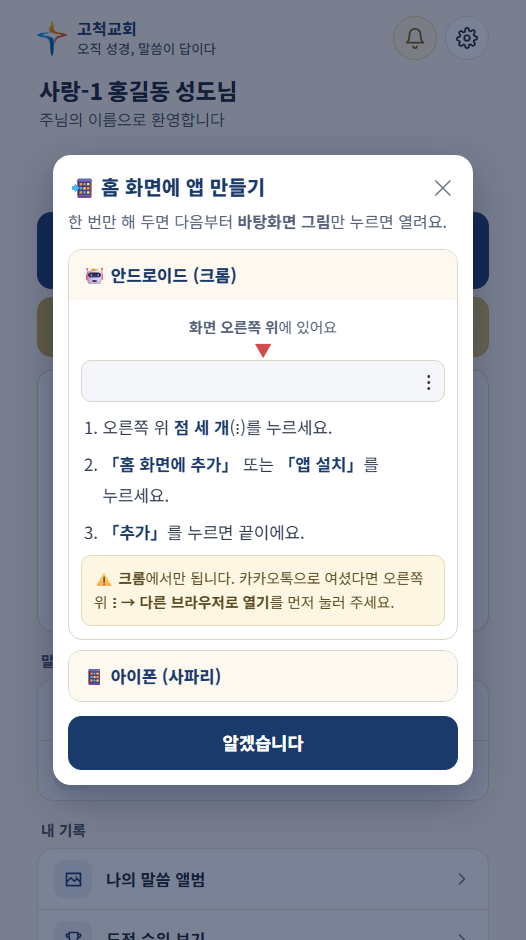
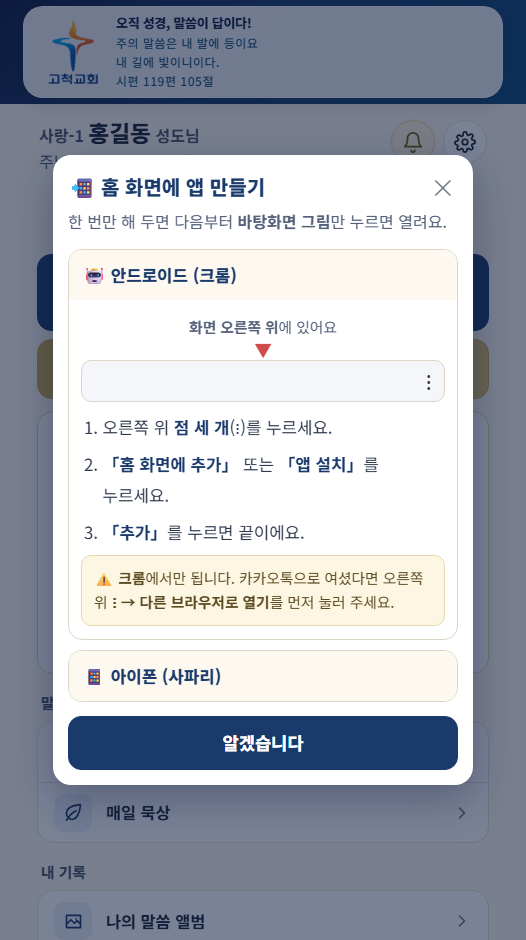
fix(첫 화면 A): 맨 위 로고 띠는 다른 화면과 같이 그대로 · 🔔⚙ 는 인사 줄 오른쪽(친구 「기존과 같이 청색으로」) — v3.637
- 시안 머리 줄(글씨 없는 로고 · 고척교회 / 오직 성경…)을 걷고 로고 띠(남색 띠 + 흰 상자)를 되살림 · img/logo-mark.png 지움
- 🔔 · ⚙ 는 인사 줄 오른쪽 · 소속 · 「성도님」은 작게(한 줄에 들게)
- 설명서 · guide ⑧ 자리 말 「내 이름 오른쪽」 · guide ② 손가락 · 사진 둘 다시

diff --git a/app.js b/app.js
@@ -6,7 +6,7 @@
 
 // 이 파일의 빌드 번호 — index.html의 app.js?v= 와 반드시 같아야 한다.
 // (tools/bump.py가 둘을 함께 올린다)
-const APP_BUILD = "20261014p";
+const APP_BUILD = "20261014q";
 
 // 배포 직후 CDN이 아직 옛 app.js를 내보내면, 브라우저는 그 옛 내용을 '새 주소'
 // 아래 캐시해 버린다. 주소가 다시 바뀌기 전까지(최대 10분) 옛 화면이 남는 이유다.
@@ -947,20 +947,17 @@ function haRow(b, ext) {
   b.insertAdjacentHTML("afterbegin", `<span class="ha-ic${tone}" aria-hidden="true">${haSvg(HA_ROW_ICON[b.id], "")}</span>`);
   b.insertAdjacentHTML("beforeend", haSvg(ext ? "ext" : "chev", "ha-trail"));
 }
-// 맨 위(2026-10-14 친구 「시안 그대로 맨 위까지」 · 「A안 첫 줄에 고척교회 앞에 글씨 없는 로고」) — 시안 A(Main.dc.html) 머리 줄:
-//   [로고 표시만(img/logo-mark.png — logo-gocheok.png 에서 「고척교회」 글씨를 잘라 냄)][고척교회 / 오직 성경, 말씀이 답이다] … [🔔][⚙].
-//   로고 띠(.page-header)는 첫 화면 A 에서만 숨긴다(watchPageHeaderVsStickyRef 가 .home-a 를 본다 · 다른 화면은 그대로).
+// 위쪽(2026-10-14 친구 — 시안 A Main.dc.html) — 인사 줄 오른쪽에 [🔔][⚙] · 인사 · 두 단추 아이콘 · 이번 주 말씀 카드.
+//   맨 위 로고 띠(.page-header · 남색 띠 + 흰 상자 · 로고 · 「오직 성경, 말씀이 답이다!」 · 시편 119편 105절)는 **다른 화면과 같이 그대로 둔다**
+//   (친구 「내용은 그대로 두고 기존과 같이 청색으로」 — 같은 날 시안처럼 띠를 걷고 「로고 · 고척교회 / 오직 성경…」 머리 줄을 넣었다가 되돌렸다).
 //   🔔 알림 · ⚙ 설정 단추는 아래 도구 칸에서 옮겨 온다 — id · 연결 · 종 강조(pulse) · 금색(알림)은 그대로. 도구 칸은 셋(구절 · 쓰기 · 도움말)이 된다.
 //   인사는 왼쪽 맞춤 큰 글씨 · 두 단추 그림 글자는 선 아이콘(자리 · 크기 · 색은 그대로 — 10/11 「늘 같은 자리」) · 이번 주 말씀은 본문 명조 · 구절은 따로 한 줄.
-//   ⚠ 설명서의 「맨 아래 ⚙ 설정 · 🔔 알림」 자리 말은 HOME_LAYOUT 을 따라 갈린다(copy-truth · MANUAL 「알림」 · 「글씨 크게 하기」).
+//   ⚠ 설명서의 「맨 아래 ⚙ 설정 · 🔔 알림」 자리 말은 HOME_LAYOUT 을 따라 갈린다(copy-truth · MANUAL 「알림」 · 「글씨 크게 하기」 · 「내 이름 오른쪽」).
 function haTop(card) {
-  const scr = card.closest(".summary-screen");
-  if (!scr || scr.querySelector(".ha-top")) return;
-  const top = document.createElement("div");
-  top.className = "ha-top";
-  top.innerHTML = `<img class="ha-logo" src="img/logo-mark.png" alt="" width="98" height="120">` +
-    `<div class="ha-brand"><b>고척교회</b><span>오직 성경, 말씀이 답이다</span></div><div class="ha-top-btns"></div>`;
-  const btns = top.querySelector(".ha-top-btns");
+  const head = card.querySelector(":scope > .summary-headrow");
+  if (!head || head.querySelector(".ha-top-btns")) return;
+  const btns = document.createElement("div");
+  btns.className = "ha-top-btns";
   [["open-alarm", "bell"], ["open-settings", "gear"]].forEach(([id, ic]) => {
     const b = document.getElementById(id);
     if (!b) return;
@@ -970,7 +967,7 @@ function haTop(card) {
     btns.appendChild(b);
     if (cap) cap.remove();
   });
-  scr.insertBefore(top, scr.firstChild);
+  head.appendChild(btns);
   // 인사 — 끝의 🙌 는 뺀다(이모지 대신 글로)
   const hello = card.querySelector(".summary-hello");
   const last = hello && hello.lastChild;
@@ -7258,7 +7255,6 @@ function scrollPastBtnRow() {
 //   .album-screen    — 구절을 길게 훑는 화면이라 위쪽 공간을 온전히 내준다
 //   .pr-wrap         — 축복 기도문. 소리 내어 읽는 화면이라 스크롤을 한 줄이라도 줄인다
 //   .min-screen      — 사역 신청. 위원회 아코디언을 길게 훑는 화면이라 위를 내준다
-//   .home-a          — 첫 화면 A안(2026-10-14 친구 「시안 그대로 맨 위까지」) — 머리 줄(로고 표시 · 고척교회 · 🔔 · ⚙)이 대신한다(app.js haTop)
 //   .ps-wrap         — 시편 말씀 액자. 액자 한 장이 주인공인 화면이라 위를 온전히 내준다
 //                      (성도님 제보 2026-09-10: 로고 배너가 액자를 눌러 화면 밖으로 밀었다)
 //   ⚠ 오늘의 찬양은 2026-09-23 저녁부터 팝업(.cheer-overlay, document.body 에 붙는다)이라
@@ -7269,7 +7265,7 @@ function scrollPastBtnRow() {
   const header = document.querySelector(".page-header");
   if (!appEl || !header) return;
   const sync = () => {
-    const hide = !!appEl.querySelector(".test-ref-sticky, .album-screen, .pr-wrap, .min-screen, .ps-wrap, .summary-screen.home-a");
+    const hide = !!appEl.querySelector(".test-ref-sticky, .album-screen, .pr-wrap, .min-screen, .ps-wrap");
     header.style.display = hide ? "none" : "";
     // 로고 배너가 지던 상태바 여백을 #app 이 대신 진다(style.css body.no-page-header).
     // 쉴만한 물가(.ps-wrap)는 제 여백을 스스로 지므로 빼야 두 번 들어가지 않는다.
@@ -9659,9 +9655,9 @@ const MANUAL = [
     art: '<div class="mn-row"><span class="mn-btn">🔔 알림</span></div>',
     get steps() {
       return [
-        // 2026-10-14 첫 화면 A 는 🔔 · ⚙ 를 맨 위 머리 줄로 옮겼다(haTop) — 롤백(HOME_LAYOUT "old")이면 옛 자리 그대로
+        // 2026-10-14 첫 화면 A 는 🔔 · ⚙ 를 인사 줄 오른쪽으로 옮겼다(haTop) — 롤백(HOME_LAYOUT "old")이면 옛 자리 그대로
         HOME_LAYOUT === "a"
-          ? "첫 화면 <b>맨 위 오른쪽</b>에 <b>🔔</b> 단추가 있어요. 그걸 누르세요."
+          ? "첫 화면 <b>내 이름 오른쪽</b>에 <b>🔔</b> 단추가 있어요. 그걸 누르세요."
           : "첫 화면을 <b>맨 아래까지</b> 내리면 <b>🔔 알림</b> 단추가 있어요. 그걸 누르세요.",
         "폰이 <b>「허용하시겠습니까?」</b> 하고 물어봐요.",
         "<b>「허용」</b>을 누르세요.",
@@ -9930,8 +9926,8 @@ const MANUAL = [
     lead: "잘 안 보이시면 키우세요.",
     art: '<div class="mn-row"><span class="mn-btn">가</span><span class="mn-btn mn-btn-mid">가</span><span class="mn-btn mn-btn-on mn-btn-big">가</span></div>',
     steps: [
-      HOME_LAYOUT === "a"   // 첫 화면 A 는 ⚙ 가 맨 위 머리 줄(haTop · 2026-10-14)
-        ? "첫 화면 <b>맨 위 오른쪽</b>의 <b>⚙</b>(설정)을 누르세요."
+      HOME_LAYOUT === "a"   // 첫 화면 A 는 ⚙ 가 인사 줄 오른쪽(haTop · 2026-10-14)
+        ? "첫 화면 <b>내 이름 오른쪽</b>의 <b>⚙</b>(설정)을 누르세요."
         : "첫 화면을 <b>맨 아래까지</b> 내려 <b>⚙ 설정</b>을 누르세요.",
       "<b>글씨 크기</b>에서 <b>크게</b>나 <b>아주 크게</b>를 고르세요.",
       "눈이 부시면 <b>화면 밝기</b>에서 <b>🌙 어둡게</b>를 고르세요.",

diff --git a/style.css b/style.css
@@ -7272,15 +7272,12 @@ html[data-fs="xl"] .test-screen.memo-c .test-sentence, html[data-fs="xl"] .test-
 .dark .nv-a .rank-filter.album-play .ab-go { background: #1a202b; border-color: #4a6597; color: #9dbbea; }
 .dark .nv-a .rank-filter.album-play .ab-go:hover { background: #222a37; }
 
-/* ── 첫 화면 A 맨 위(app.js haTop · 2026-10-14 친구 「시안 그대로 맨 위까지」 · 「고척교회 앞에 글씨 없는 로고」) ─────────────
-   로고 띠(.page-header)를 숨기고 크림 바탕 위에 [로고][고척교회 / 오직 성경, 말씀이 답이다] … [🔔][⚙] · 인사 · 두 단추 · 이번 주 말씀 카드 ·
-   묶음 · 도구 칸이 바로 놓인다(흰 큰 카드를 걷는다 — 시안 A 의 「바탕 위 흰 카드」). 두 단추의 자리 · 크기 · 색은 그대로. */
-.home-a .ha-top { max-width: 460px; margin: 0 auto 16px; padding: 6px 4px 0; display: flex; align-items: center; gap: 10px; }
-.home-a .ha-logo { width: 30px; height: auto; flex: none; }
-.home-a .ha-brand { display: flex; flex-direction: column; gap: 1px; min-width: 0; flex: 1 1 auto; text-align: left; }
-.home-a .ha-brand b { font-size: 1rem; font-weight: 800; line-height: 1.3; letter-spacing: .02em; color: #1e3a6b; }
-.home-a .ha-brand span { font-size: .84rem; font-weight: 500; line-height: 1.3; color: #4a5468; word-break: keep-all; }
-.home-a .ha-top-btns { display: flex; gap: 8px; flex: none; }
+/* ── 첫 화면 A 위쪽(app.js haTop · 2026-10-14 친구) — 맨 위 로고 띠(남색 띠 + 흰 상자)는 다른 화면과 같이 그대로(친구 「기존과 같이 청색으로」) ─────
+   그 아래 크림 바탕 위에 인사(왼쪽) · [🔔][⚙](오른쪽) · 두 단추 · 이번 주 말씀 카드 · 묶음 · 도구 칸이 바로 놓인다(흰 큰 카드를 걷는다 — 시안 A 의
+   「바탕 위 흰 카드」). 두 단추의 자리 · 크기 · 색은 그대로. */
+.home-a .summary-headrow { flex-direction: row; align-items: flex-start; gap: 10px; }
+.home-a .summary-headrow .summary-hello { min-width: 0; word-break: keep-all; }
+.home-a .ha-top-btns { display: flex; gap: 8px; flex: none; margin-top: 2px; }
 .home-a .ha-top-btns .summary-icon.ha-round { width: 44px; height: 44px; border: 1px solid #e5dfd4; background: #fff; color: #1b2333; }
 .home-a .ha-top-btns .summary-icon.ha-round:hover { background: #f7f4ee; }
 .home-a .ha-top-btns .summary-icon.ha-round svg { width: 22px; height: 22px; }
@@ -7288,11 +7285,12 @@ html[data-fs="xl"] .test-screen.memo-c .test-sentence, html[data-fs="xl"] .test-
 .home-a .ha-top-btns .summary-icon.icon-alarm.ha-round:hover { background: #ffeec4; }
 /* 흰 큰 카드를 걷는다 — 인사 · 단추 · 카드가 바탕 위에 */
 .home-a .summary-card { background: transparent; border: 0; box-shadow: none; padding: 0 4px 8px; text-align: left; }
-.home-a .summary-headrow { position: static; margin: 0 0 14px; padding: 0 2px; background: transparent; border: 0; border-radius: 0; }
+.home-a .summary-headrow { position: static; margin: 4px 0 14px; padding: 0 2px; background: transparent; border: 0; border-radius: 0; }
 .home-a .summary-hello { font-family: "Noto Sans KR", sans-serif; font-size: 1rem; line-height: 1.5; color: #4a5468; text-align: left; }
+.home-a .summary-hello .summary-user { font-size: 1.42rem; font-weight: 800; line-height: 1.35; letter-spacing: 0; color: #1b2333; }
+/* 소속 · 「성도님」은 작게(옛 첫 화면과 같은 짜임) — 🔔 · ⚙ 와 한 줄이라 셋 다 크면 360px 에서 「성도님」이 다음 줄로 꺾였다 */
 .home-a .summary-hello .summary-affil,
-.home-a .summary-hello .summary-user,
-.home-a .summary-hello .summary-honor { font-size: 1.42rem; font-weight: 800; line-height: 1.35; letter-spacing: 0; color: #1b2333; }
+.home-a .summary-hello .summary-honor { font-size: 1rem; font-weight: 700; line-height: 1.35; letter-spacing: 0; color: #4a5468; }
 .home-a .ha-big-ic { width: 30px; height: 30px; display: block; }
 .home-a #go-challenge .ha-big-ic { width: 26px; height: 26px; }
 /* 묶음 띠 — 바탕이 이미 크림이라 띠는 걷는다(여백만) */
@@ -7310,17 +7308,15 @@ html[data-fs="xl"] .test-screen.memo-c .test-sentence, html[data-fs="xl"] .test-
 .home-a .weekly-actions .weekly-primary { background: #1e3a6b; border-color: #1e3a6b; color: #fff; }
 .home-a .weekly-actions .weekly-secondary { background: transparent; border-color: #8da3c8; color: #1e3a6b; }
 .home-a .weekly-actions .weekly-secondary:hover { background: #eaf0f9; }
-.dark .home-a .ha-brand b { color: #9dbbea; }
-.dark .home-a .ha-brand span { color: #b9c0cd; }
 .dark .home-a .ha-top-btns .summary-icon.ha-round { background: #1a202b; border-color: #2c3442; color: #f1eee7; }
 .dark .home-a .ha-top-btns .summary-icon.ha-round:hover { background: #222a37; }
 .dark .home-a .ha-top-btns .summary-icon.icon-alarm.ha-round { background: #3a3320; border-color: #5a4e2a; color: #eccf87; }
 .dark .home-a .summary-card { background: transparent; border: 0; }
 .dark .home-a .summary-headrow { background: transparent; border: 0; }
 .dark .home-a .summary-hello { color: #b9c0cd; }
+.dark .home-a .summary-hello .summary-user { color: #f1eee7; }
 .dark .home-a .summary-hello .summary-affil,
-.dark .home-a .summary-hello .summary-user,
-.dark .home-a .summary-hello .summary-honor { color: #f1eee7; }
+.dark .home-a .summary-hello .summary-honor { color: #b9c0cd; }
 .dark .home-a .ha-zone { background: transparent; }
 .dark .home-a .weekly-card { background: #1a202b; border-color: #5c4c22; }
 .dark .home-a .weekly-kicker { background: #3a3018; color: #e9cd7e; }

diff --git a/index.html b/index.html
@@ -68,7 +68,7 @@
   <link rel="preconnect" href="https://fonts.gstatic.com" crossorigin />
   <link href="https://fonts.googleapis.com/css2?family=Gowun+Batang:wght@400;700&family=Lora:wght@400;600;700&family=Nanum+Myeongjo:wght@400;700;800&family=Noto+Sans+KR:wght@400;500;700;800&display=swap" rel="stylesheet" media="print" onload="this.media='all'" />
   <noscript><link href="https://fonts.googleapis.com/css2?family=Gowun+Batang:wght@400;700&family=Lora:wght@400;600;700&family=Nanum+Myeongjo:wght@400;700;800&family=Noto+Sans+KR:wght@400;500;700;800&display=swap" rel="stylesheet" /></noscript>
-  <link rel="stylesheet" href="style.css?v=20261014p" />
+  <link rel="stylesheet" href="style.css?v=20261014q" />
 </head>
 <body>
   <!-- 앱 시작 스플래시 화면 -->
@@ -77,7 +77,7 @@
       <img id="splash-logo" src="img/logo-gocheok.png" alt="고척교회" />
       <div class="splash-title">오직 성경, 말씀이 답이다!</div>
       <div class="splash-sub">주의 말씀은 내 발에 등이요<br>내 길에 빛이니이다</div>
-      <div class="splash-ver">v3.636</div>
+      <div class="splash-ver">v3.637</div>
       <img class="splash-denom" src="logo3.png?v=20260702y" alt="대한예수교장로회총회" onerror="this.style.display='none'" />
     </div>
   </div>
@@ -110,11 +110,11 @@
     <p style="text-align:center;padding:40px">불러오는 중...</p>
   </main>
 
-  <script src="js/config.js?v=20261014p"></script>
-  <script src="js/api.js?v=20261014p"></script>
-  <script src="js/push.js?v=20261014p"></script>
-  <script src="js/psalm.js?v=20261014p"></script>
-  <script src="js/events.js?v=20261014p"></script>
-  <script src="app.js?v=20261014p"></script>
+  <script src="js/config.js?v=20261014q"></script>
+  <script src="js/api.js?v=20261014q"></script>
+  <script src="js/push.js?v=20261014q"></script>
+  <script src="js/psalm.js?v=20261014q"></script>
+  <script src="js/events.js?v=20261014q"></script>
+  <script src="app.js?v=20261014q"></script>
 </body>
 </html>

diff --git a/guide/index.html b/guide/index.html
@@ -177,7 +177,7 @@ var STEPS = [
     say:"앱의 <b>❓ 도움말</b>에서 ①번 <b>📲 지금 만들기</b>를 누르면 이런 안내가 나와요. 안드로이드는 「설치」 창이 바로 뜨기도 하고, 아이폰은 화면 맨 아래 <b>공유 단추</b>를 눌러 「홈 화면에 추가」를 고르시면 됩니다.",
     tip:"카카오톡 안에서 열면 되지 않아요. 먼저 「사파리로 열기」나 「다른 브라우저로 열기」를 누르세요." },
 
-  { img:"shots/home.png", t:"② 첫 화면", tap:{x:50,y:27},
+  { img:"shots/home.png", t:"② 첫 화면", tap:{x:50,y:31},
     s:"여기서 모든 것이 시작돼요.",
     say:"내 이름과 <b>오늘 몇 번</b> 했는지가 위에 보여요. 그 아래 <b>남색 단추</b>가 「말씀 암송」, 바로 밑 <b>금색 단추</b>가 「말씀 도전」입니다.",
     tip:"두 단추는 늘 같은 자리에 있어요." },
@@ -206,7 +206,7 @@ var STEPS = [
 
   { img:"shots/settings.png", t:"⑧ 글씨 크게 하기", tap:{x:50,y:50},
     s:"잘 안 보이시면 키우세요.",
-    say:"첫 화면 맨 위 오른쪽의 <b>⚙</b>(설정)을 누르고 <b>글씨 크기</b>에서 「크게」나 「아주 크게」를 고르세요. 읽어 주는 <b>속도</b>도 느리게 할 수 있어요." },
+    say:"첫 화면 내 이름 오른쪽의 <b>⚙</b>(설정)을 누르고 <b>글씨 크기</b>에서 「크게」나 「아주 크게」를 고르세요. 읽어 주는 <b>속도</b>도 느리게 할 수 있어요." },
 
   { img:"shots/manual.png", t:"⑨ 언제든 다시 보기",
     s:"앱 안에도 설명서가 있어요.",

diff --git a/admin.html b/admin.html
@@ -74,7 +74,7 @@
     // 교회 어드민으로 옮긴 관리 화면은 여기서 걷었다 — 성도 정보(2026-10-09) · 이벤트 · 찬양 아카이브 · 내게 주시는 말씀 기록 · 사역관리(2026-10-13).
     //   남은 것(성경암송 관리 · 설교·찬양 관리)은 설교 실전 확인 뒤 마지막 걷기에(docs/notes/admin-migration.md).
     //   ⚠ 교회 어드민(admin.onlybible.kr)으로 가는 타일은 두지 않는다(2026-10-13 친구 — 그곳은 주소로 직접 들어간다).
-    { ic:"📖", title:"성경암송 관리", desc:"통계 · 알림발송 · 주간리포트 · 게시판", href:"admin-stats.html?v=20261014p" },
+    { ic:"📖", title:"성경암송 관리", desc:"통계 · 알림발송 · 주간리포트 · 게시판", href:"admin-stats.html?v=20261014q" },
     { ic:"⛪", title:"설교·찬양 관리", desc:"설교 올리기(두 단계) · 설교 목록 · 매일 묵상 · 담당자 — 담당자도 이 주소로", href:"admin-sermon.html" },
     { ic:"🎬", title:"환영 인트로 미리보기", desc:"첫 방문 인트로 4장 — 성도님 화면엔 영향 없음", href:"index.html?preview=intro" },
     { ic:"🙏", title:"축복 인사 미리보기", desc:"첫 로그인 축복 카드 — 로그인 상태에서 확인", href:"index.html?preview=blessing" },

diff --git a/CLAUDE.md b/CLAUDE.md
@@ -59,7 +59,7 @@
 | 봉사 당번(2026-10-06 운영 · 문 닫힘 — 🧪만) — `duty_signups` 에 직접 쓰지 말 것 | `docs/notes/duty-roster.md` |
 | 관리 기능을 교회 어드민으로 옮기기(2026-10-08 결정) | `docs/notes/admin-migration.md` · `docs/backlog.md` 4-5 |
 | 안드로이드 앱(TWA)·위젯·플레이스토어(새 앱 `kr.onlybible.gocheok`) | `docs/notes/android-app.md` |
-| 디자인 개편(2026-10-12 시작 · 시안 A·B·C 의견 수렴 중 — 고르기 전엔 입히지 말 것) · 「전」 사진 `자료/design/` · **먼저 넣은 것**(10-12 운영): 첫 화면 남은 수·전체 수·% 빼기 · 말씀 목록 시안 B 구조(본문 두 줄 · 거르기 칸 「진행·마침·마음에 둠·안 함」 · 힌트는 마음에 둔 구절에만) · 상태 이름 「아직 안 함 · 1단계 마침 · 다 마침」 · **첫 화면 A안 운영(2026-10-13 · 이번 주 말씀 아래 줄 목록) — 롤백 `app.js` `HOME_LAYOUT = "old"` 한 줄 + bump(깃 태그 `home-before-a-2026-10-13`)** · 한 기기만 `?home=old` · B안 미리보기 `?home=b` · `?home=off` · **나의 말씀 앨범 A안 운영(2026-10-13 v3.617 · 롤백 `app.js` `ALBUM_LAYOUT = "old"` 한 줄 + bump)** · 「첫 화면으로」는 시안과 달리 늘 아래에 떠 있게(친구) · **✍ 말씀 글꼴 설정(2026-10-14 · 기본 고딕 · `html[data-wf]`)** · **암송 · 말씀 도전 A안 운영(2026-10-14 v3.634 · 주제별 성경암송 3단계 · 복습도 v3.635 · 단계 완료 창 · 마친 뒤 카드 · 주제별 목록 · 첫 화면 맨 위(로고 표시 `img/logo-mark.png` · 🔔⚙ 위로)도 v3.636 — 롤백 `app.js` `MEMO_LAYOUT = "old"` 한 줄 + bump · 깃 태그 `memo-before-a-2026-10-14` · 한 기기만 설정 → 관리 페이지 「옛 화면」/`?memo=old`) · 위 구절 띠(`.test-ref-sticky`)에는 아무것도 넣지 말 것 — 아이폰 앱이 읽는다** | `docs/notes/design-refresh.md` |
+| 디자인 개편(2026-10-12 시작 · 시안 A·B·C 의견 수렴 중 — 고르기 전엔 입히지 말 것) · 「전」 사진 `자료/design/` · **먼저 넣은 것**(10-12 운영): 첫 화면 남은 수·전체 수·% 빼기 · 말씀 목록 시안 B 구조(본문 두 줄 · 거르기 칸 「진행·마침·마음에 둠·안 함」 · 힌트는 마음에 둔 구절에만) · 상태 이름 「아직 안 함 · 1단계 마침 · 다 마침」 · **첫 화면 A안 운영(2026-10-13 · 이번 주 말씀 아래 줄 목록) — 롤백 `app.js` `HOME_LAYOUT = "old"` 한 줄 + bump(깃 태그 `home-before-a-2026-10-13`)** · 한 기기만 `?home=old` · B안 미리보기 `?home=b` · `?home=off` · **나의 말씀 앨범 A안 운영(2026-10-13 v3.617 · 롤백 `app.js` `ALBUM_LAYOUT = "old"` 한 줄 + bump)** · 「첫 화면으로」는 시안과 달리 늘 아래에 떠 있게(친구) · **✍ 말씀 글꼴 설정(2026-10-14 · 기본 고딕 · `html[data-wf]`)** · **암송 · 말씀 도전 A안 운영(2026-10-14 v3.634 · 주제별 성경암송 3단계 · 복습도 v3.635 · 단계 완료 창 · 마친 뒤 카드 · 주제별 목록 · 첫 화면 위쪽(🔔⚙ 는 인사 줄 오른쪽 · 맨 위 로고 띠는 그대로 — 친구 v3.637)도 v3.636 — 롤백 `app.js` `MEMO_LAYOUT = "old"` 한 줄 + bump · 깃 태그 `memo-before-a-2026-10-14` · 한 기기만 설정 → 관리 페이지 「옛 화면」/`?memo=old`) · 위 구절 띠(`.test-ref-sticky`)에는 아무것도 넣지 말 것 — 아이폰 앱이 읽는다** | `docs/notes/design-refresh.md` |
 
 ## 폴더 — 참고·산출물은 `자료/` (2026-10-08)
 화면이 안 쓰는 참고·산출물은 모두 `자료/` 아래다 — `marketing`·`ministry`·`store`·`psalm`·`migrate`·`booklet`(GitHub) + `education`·`newfamily`·`AppForm`·`Picture`·`당회보고`(로컬). **`자료/` 는 사이트로 안 나간다.**

diff --git a/docs/notes/design-refresh.md b/docs/notes/design-refresh.md
@@ -90,6 +90,7 @@
   - 플레이 앱 위 띠는 `syncStatusBar` 가 화면 맨 위 색을 재므로 첫 화면에서 이제 크림이 된다(코드 손댈 것 없음 · 실기기 확인은 남음).
 - 확인(localhost 개발 DB): 360 · 320 아주 크게 × 밝게 · 어둡게 — 넘침 · 잘림 0 · 오류 0 · 완료 창(주간 1 · 3단계 · 주제별 1 · 2단계) · 완료 카드 · 주제별 두 목록 · 첫 화면 · 설정 단추 → 설정 화면 · 다른 화면(설정 · 말씀 목록)은 로고 띠 그대로 · `?home=old` 는 옛 첫 화면 그대로(로고 띠 · 아래 🔔) · `?home=b` 그대로.
 - 롤백: ①②③ = `MEMO_LAYOUT = "old"` · ④ = `HOME_LAYOUT = "old"`(각 한 줄 + bump). 한 기기만은 설정 → 🔒 관리 「옛 화면」(①②③) · `?home=old`(④).
+- **같은 날 v3.637 — 맨 위 로고 띠는 되돌렸다**(친구 — 로고 띠 사진을 보이며 「내용은 그대로 두고 기존과 같이 박스를 청색으로」 → 「원래 로고 띠로(남색 띠 + 흰 상자)」를 고름). 첫 화면도 다른 화면과 같은 로고 띠(로고 · 「오직 성경, 말씀이 답이다!」 · 시편 119편 105절)가 맨 위에 있고, 시안의 머리 줄(글씨 없는 로고 · 「고척교회 / 오직 성경…」)은 걷었다(`img/logo-mark.png` 도 지움). 🔔 · ⚙ 는 **인사 줄 오른쪽**(`haTop` 이 `.summary-headrow` 에 붙인다) · 그래서 소속 · 「성도님」은 작게(옛 첫 화면 짜임 — 셋 다 크면 360px 에서 「성도님」이 꺾였다 · 320 아주 크게는 「성도님」만 다음 줄). 설명서 · guide ⑧ 의 자리 말은 「내 이름 오른쪽」 · guide ② 손가락 y 31 · 사진 둘 다시. 그 아래(인사 · 두 단추 아이콘 · 이번 주 말씀 · 흰 큰 카드 걷기 · 묶음)는 v3.636 그대로. 플레이 앱 위 띠는 다시 로고 띠 남색.
 
 ## 🧪 암송 화면 시안 A · B · C 미리보기 — `?memo=a|b|c` (2026-10-14 · 친구 「암송화면 시안A, 시안B, 시안C 모두 만들어 주세요」)
 - **폰에서는 설정 → 🔒 관리 페이지 → 「🧪 암송 화면 시안 미리보기」**에서 켠다(아래 ⚠). PC 브라우저는 **https://gocheok.onlybible.kr/?memo=a**(또는 `b` · `c`)로 연 기기에서만 암송 화면(`renderTestScreen` — 이번 주 말씀 · 말씀 목록에서 들어가는 화면)이 그 시안 꼴이다. 화면 위 표시 줄에서 **A · B · C · 원래**를 그 자리에서 바꿔 본다(`?memo=off` 도 원래로). 표식은 localStorage `memo-preview` 하나 — 주소를 모르는 성도님 화면은 그대로다.

diff --git a/docs/notes/home-screen.md b/docs/notes/home-screen.md
@@ -105,5 +105,5 @@
 
 ## 교회 사이트에 고척교회 유튜브(2026-10-13 · v3.607)
 친구 요청 — 「교회 사이트」 묶음 찬양·말씀 아카이브 아래 **▶ 고척교회 유튜브**(`#open-youtube` → `https://www.youtube.com/@GocheokCh` · 새 창 · ↗). A안 `HA_GROUPS` 「교회 사이트」 셋째 · 줄 아이콘 `play` · 옛 첫 화면은 「더 보기」 안. 앱이 유튜브로 보내는 정보는 없다(주소만 연다 — 「오늘의 찬양」의 앱 안 재생과 다르다). 시험 `tests/home-groups.test.cjs`(차례·주소).
-- **2026-10-14 첫 화면 맨 위도 시안 A(친구 「시안 그대로 맨 위까지」 · 「고척교회 앞에 글씨 없는 로고」 · v3.636).** 로고 띠를 첫 화면에서만 숨기고 머리 줄 [로고 표시][고척교회 / 오직 성경, 말씀이 답이다][🔔][⚙] · 🔔 · ⚙ 는 아래 도구 칸에서 옮겨 왔다(도구 칸은 구절 · 쓰기 · 도움말 셋) · 흰 큰 카드를 걷어 바탕 위에 흰 카드 · 인사 왼쪽 맞춤 · 두 단추 그림 글자는 선 아이콘(**자리 · 크기 · 색은 그대로** — 10/11 「늘 같은 자리」) · 이번 주 말씀 카드 정리. 코드 `app.js haTop`(applyHomeA 가 먼저 부른다) · 상세와 확인은 `design-refresh.md` 「v3.636」. ⚠ 설명서의 🔔 · ⚙ 자리 말은 `HOME_LAYOUT` 으로 갈린다 — 롤백하면 옛 말이 나온다.
+- **2026-10-14 첫 화면 위쪽도 시안 A(v3.636 → 맨 위만 v3.637 에 되돌림).** 처음엔 시안대로 로고 띠를 숨기고 머리 줄 [글씨 없는 로고][고척교회 / 오직 성경…][🔔][⚙] 을 넣었다가, 친구가 「기존과 같이 청색으로」 → **로고 띠는 다른 화면과 같이 그대로** · 🔔 · ⚙ 는 **인사 줄 오른쪽**(아래 도구 칸에서 옮겨 왔다 — 도구 칸은 구절 · 쓰기 · 도움말 셋) · 흰 큰 카드를 걷어 바탕 위에 흰 카드 · 인사 왼쪽 맞춤 · 두 단추 그림 글자는 선 아이콘(**자리 · 크기 · 색은 그대로** — 10/11 「늘 같은 자리」) · 이번 주 말씀 카드 정리. 코드 `app.js haTop`(applyHomeA 가 먼저 부른다) · 상세와 확인은 `design-refresh.md` 「v3.636」. ⚠ 설명서의 🔔 · ⚙ 자리 말은 `HOME_LAYOUT` 으로 갈린다 — 롤백하면 옛 말이 나온다.
 
